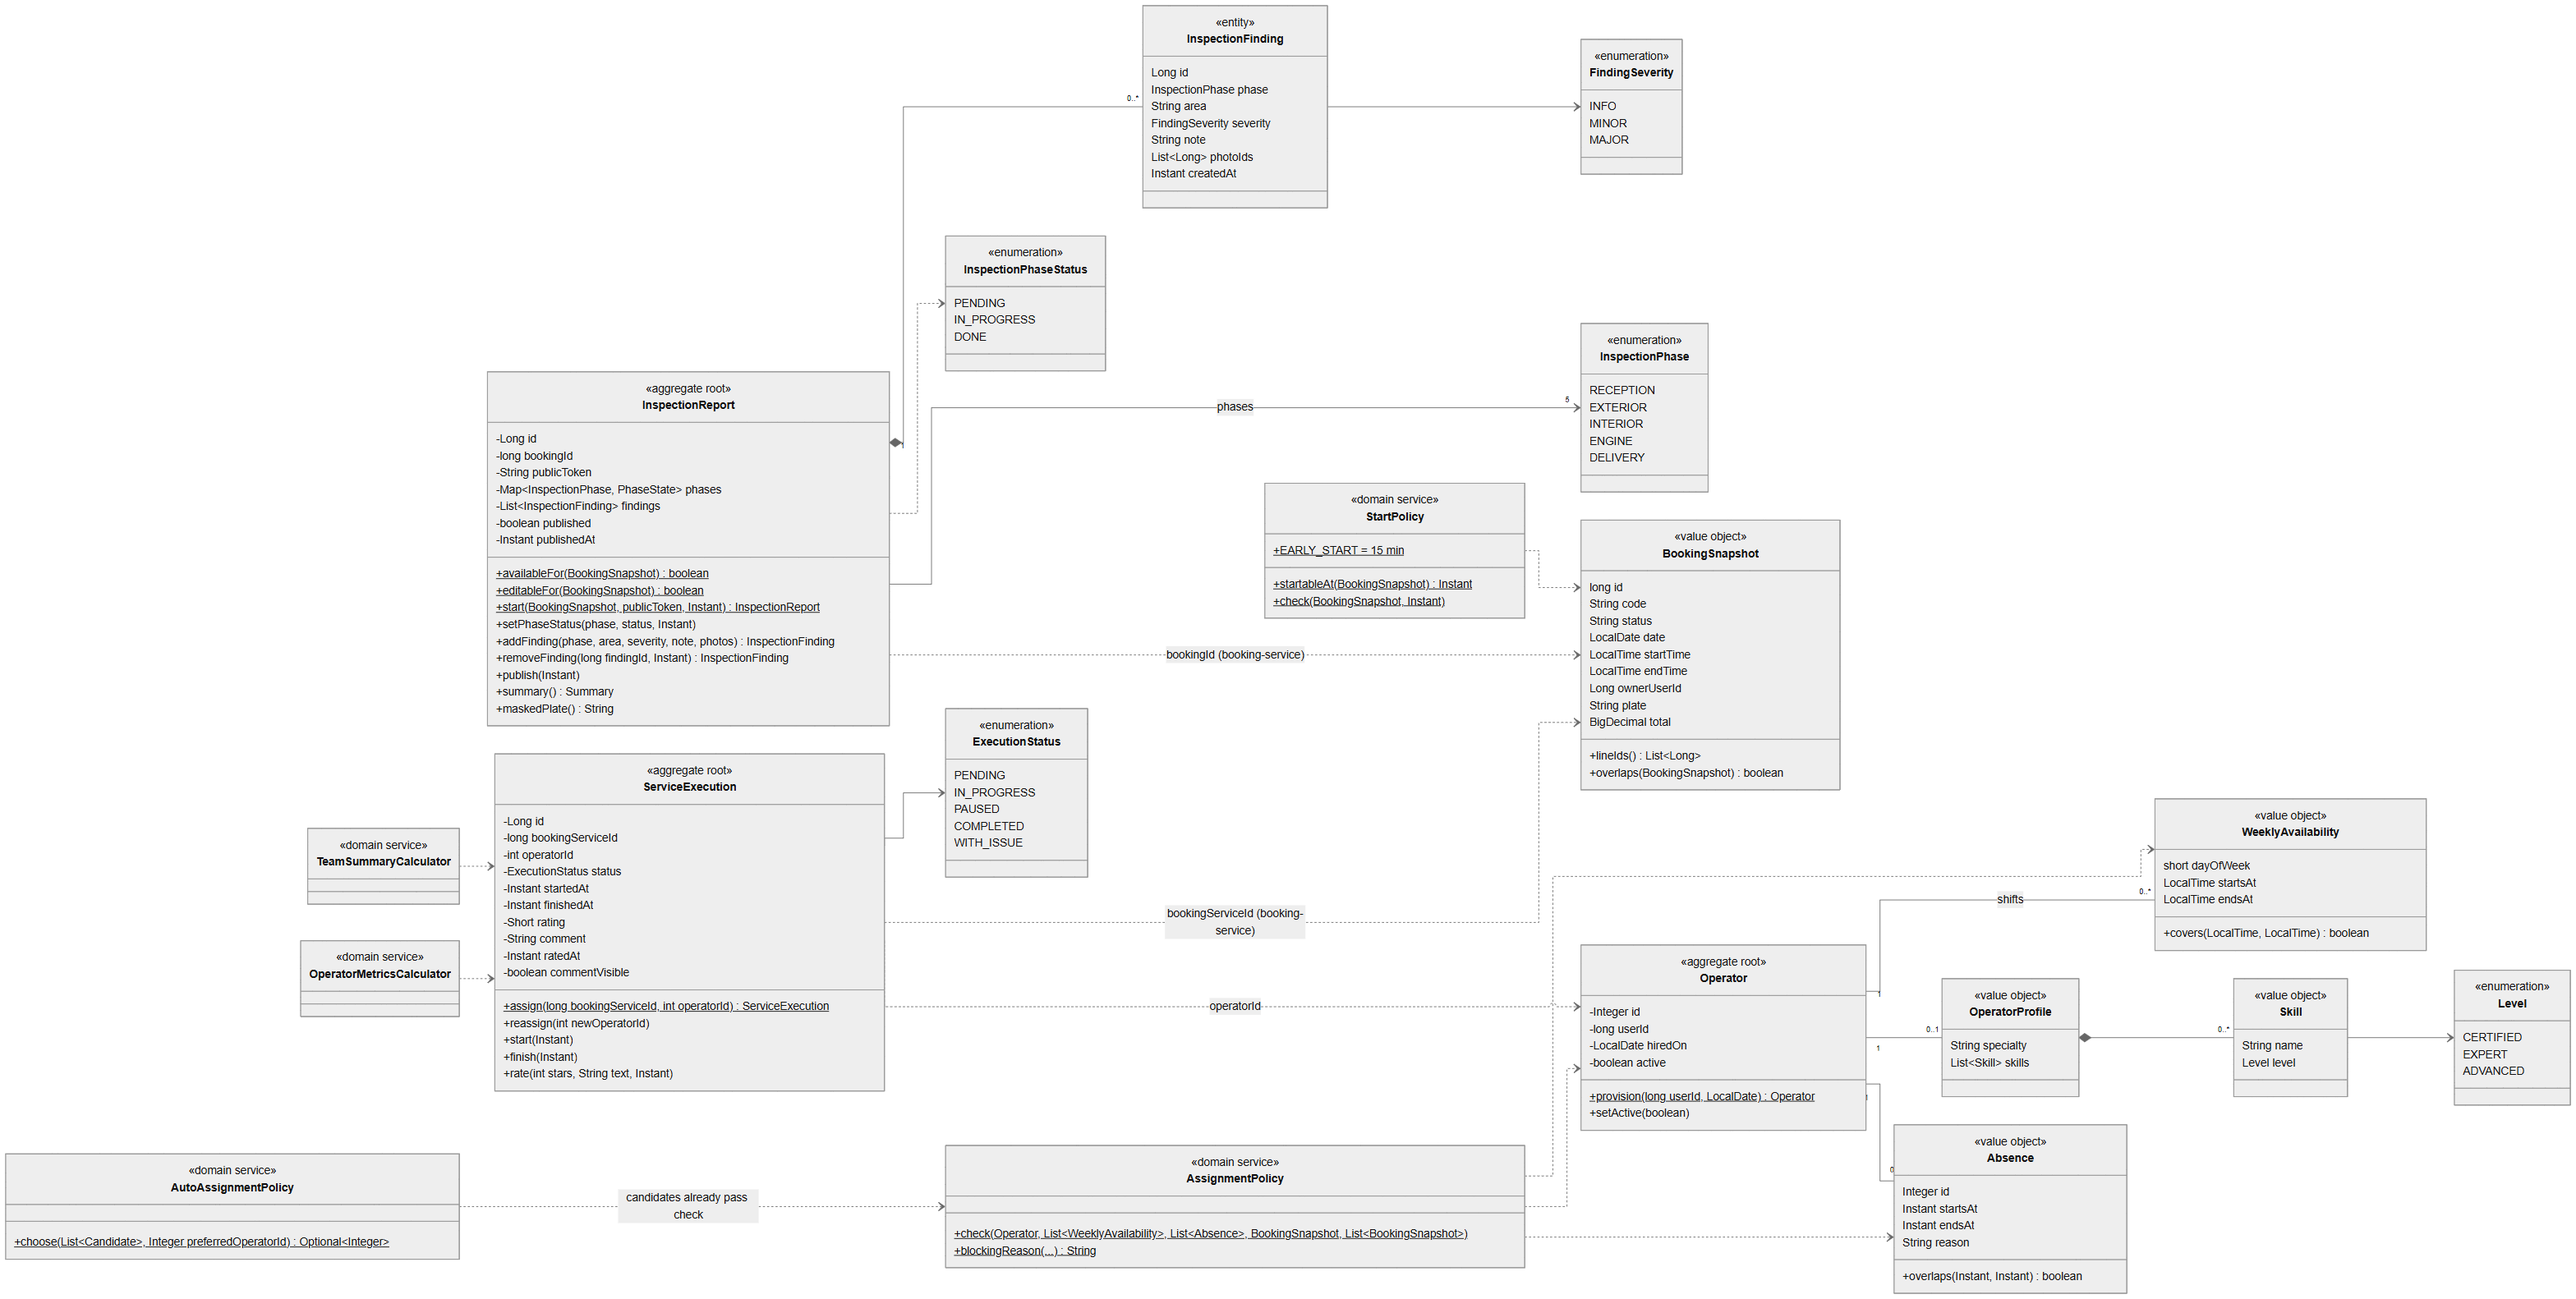
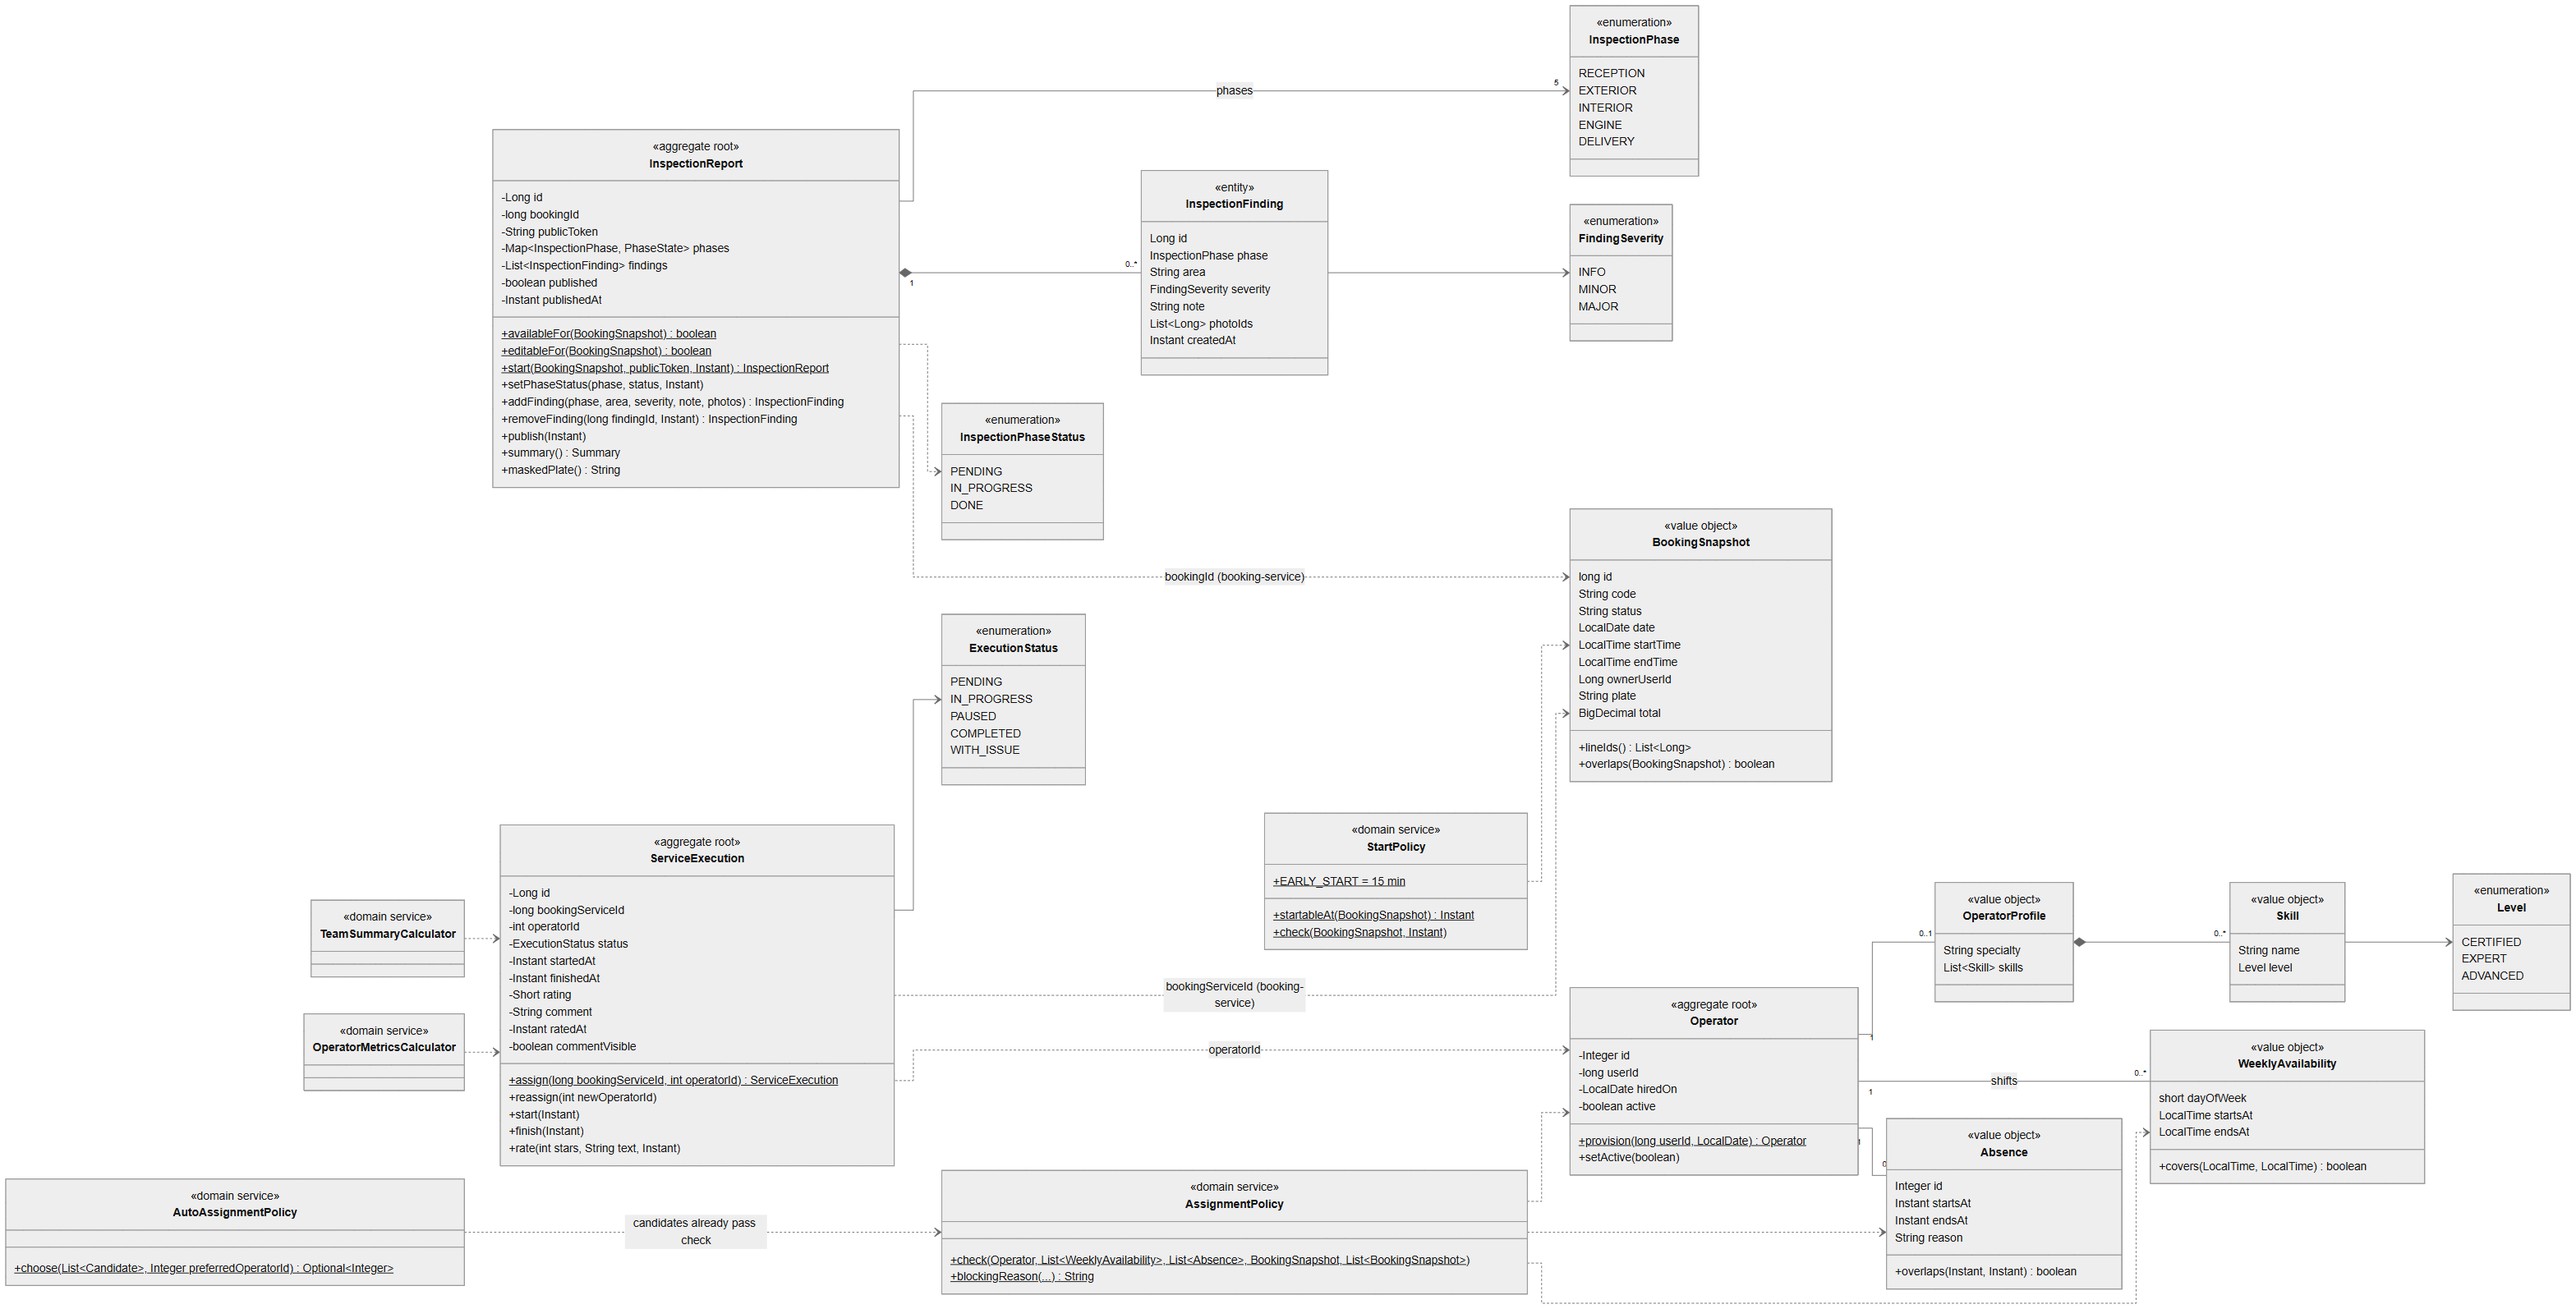
docs(uml): export the images again after the second review

diff --git a/08-uml/README.md b/08-uml/README.md
@@ -46,9 +46,10 @@ always the `.md` file; the images in `diagrams/exports/` are a copy for Word, PD
 - When a source changes, export the images again in the same PR:
   `cd 08-uml/tools/render && npm install && npm run build && npm run export`. It needs Node 22 and Edge
   (or `BROWSER=chrome`). The tool prints `REVISAR` for any diagram with a crossing or an overlap.
+- If a diagram still has a crossing, `node untangle.js <file.md> <block number>` tries other orders of
+  its declarations (same content) and keeps the first one with no crossings.
 - The 41 images were exported on 2026-10-20 with Mermaid 11.17.2 and ELK and checked one by one: no
-  syntax errors, no curved lines, no overlaps. Three diagrams (class-operations, class-payment and
-  erd-security) keep one crossing, drawn with a bridge.
+  syntax errors, no curved lines, no crossings and no overlaps.
 
 ---
 
